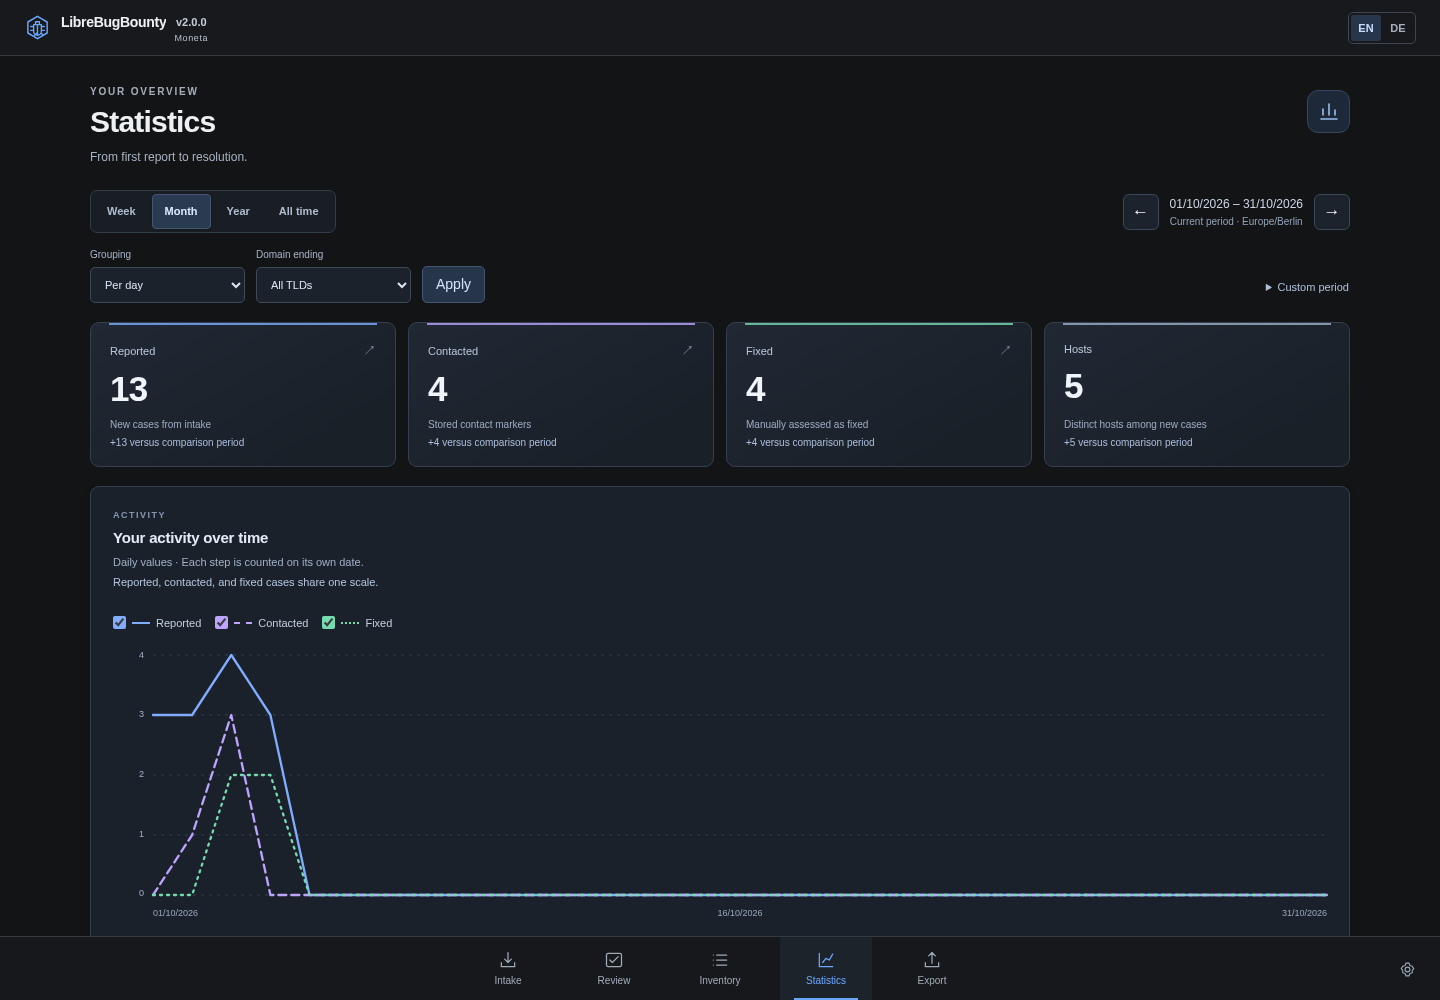
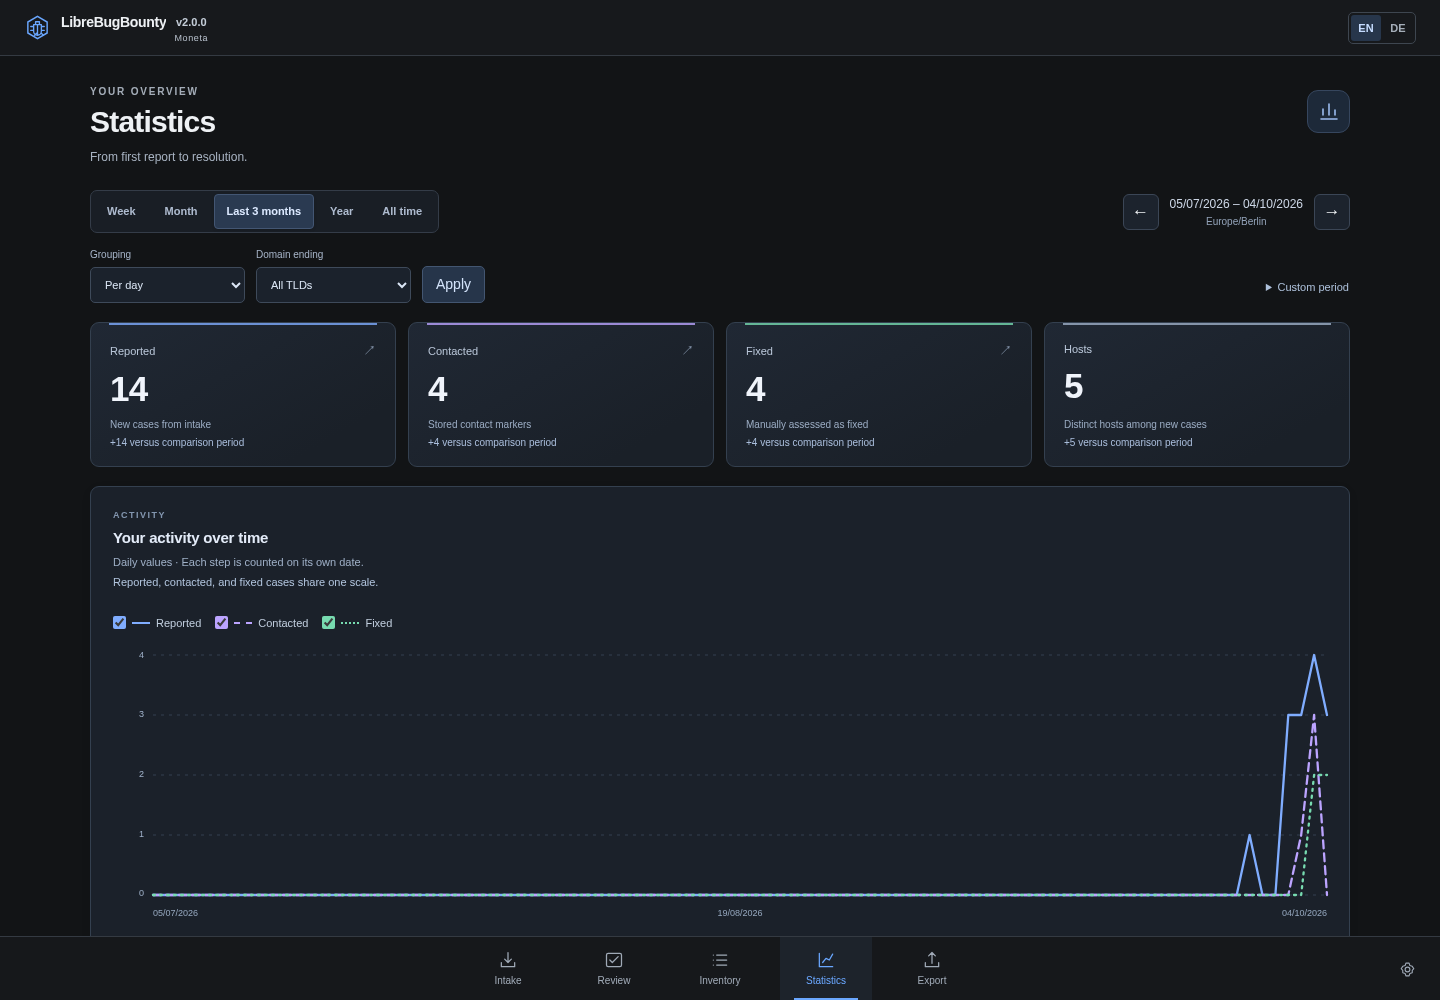
feat(statistics): default to the rolling last three months
Add the translated period tab, clamp calendar month boundaries, and retain filters during period navigation. Cover range boundaries and drilldowns in PHP and browser checks, and refresh release documentation and the Statistics screenshot.

diff --git a/tests/StatisticsServiceTest.php b/tests/StatisticsServiceTest.php
@@ -130,13 +130,74 @@ final class StatisticsServiceTest extends DatabaseTestCase
         self::assertSame(1, $view['series'][0]['reported']);
     }
 
+    public function testDefaultRollingThreeMonthsIncludesSelectedDayAndPreciselyBoundsDrilldowns(): void
+    {
+        foreach (['2026-07-05 23:59:59', '2026-07-06 00:00:00', '2026-09-30 12:00:00', '2026-10-05 23:59:59', '2026-10-06 00:00:00'] as $date) {
+            $this->finding('rolling.test', $date);
+        }
+        $before = $this->databaseSnapshot();
+        $view = $this->service()->get([], $this->now('2026-10-05 12:00:00'));
+        self::assertSame('last_3_months', $view['period']['kind']);
+        self::assertSame('2026-07-06', $view['period']['from']);
+        self::assertSame('2026-10-05', $view['period']['to']);
+        self::assertSame('day', $view['period']['granularity']);
+        self::assertCount(92, $view['series']);
+        self::assertSame(3, $view['kpis']['reported']['count']);
+        self::assertSame(3, array_sum(array_column($view['series'], 'reported')));
+        self::assertStringContainsString('from=2026-07-06', $view['kpis']['reported']['url']);
+        self::assertStringContainsString('to=2026-10-05', $view['kpis']['reported']['url']);
+        $selected = $this->service()->get(['period' => 'last_3_months', 'anchor' => '2026-09-30', 'granularity' => 'week', 'tld' => '.test'], $this->now('2026-10-05'));
+        self::assertSame('2026-07-01', $selected['period']['from']);
+        self::assertSame('2026-09-30', $selected['period']['to']);
+        self::assertStringContainsString('anchor=2026-06-30', $selected['period']['previousUrl']);
+        self::assertStringContainsString('anchor=2026-12-31', $selected['period']['nextUrl']);
+        self::assertStringContainsString('granularity=week', $selected['period']['previousUrl']);
+        self::assertStringContainsString('tld=.test', $selected['period']['nextUrl']);
+        self::assertSame($before, $this->databaseSnapshot());
+    }
+
+    public function testRollingMonthsClampMonthEndsAndKeepPreviousWindowAdjacent(): void
+    {
+        foreach ([
+            ['2026-05-30', '2026-02-28', '2026-05-31', '2025-11-28'],
+            ['2028-05-30', '2028-02-29', '2028-05-31', '2027-11-29'],
+            ['2026-03-31', '2026-01-01', '2026-04-01', '2025-10-01'],
+            ['2026-10-05', '2026-07-06', '2026-10-06', '2026-04-06'],
+        ] as [$anchor, $from, $until, $previousFrom]) {
+            $period = StatisticsPeriod::fromQuery(['anchor' => $anchor], $this->now('2028-10-05'));
+            self::assertSame($from, $period->from->format('Y-m-d'), $anchor);
+            self::assertSame($until, $period->until->format('Y-m-d'), $anchor);
+            self::assertSame($previousFrom, $period->previousFrom->format('Y-m-d'), $anchor);
+            parse_str(parse_url($period->navigationUrl(false), PHP_URL_QUERY), $query);
+            $previous = StatisticsPeriod::fromQuery($query, $period->now);
+            self::assertEquals($period->previousFrom, $previous->from);
+            self::assertEquals($period->from, $previous->until);
+        }
+        $lower = StatisticsPeriod::fromQuery(['anchor' => '0001-04-01'], $this->now('2026-10-05'));
+        self::assertNull($lower->navigationUrl(false));
+        $upper = StatisticsPeriod::fromQuery(['anchor' => '9998-12-31'], $this->now('2026-10-05'));
+        self::assertNull($upper->navigationUrl(true));
+    }
+
+    public function testOngoingRollingComparisonUsesEqualElapsedSecondsAcrossBerlinDst(): void
+    {
+        $period = StatisticsPeriod::fromQuery([], $this->now('2026-03-30 12:00:00'));
+        self::assertSame('2025-12-31', $period->from->format('Y-m-d'));
+        self::assertSame('+01:00', $period->from->format('P'));
+        self::assertSame('+02:00', $period->until->format('P'));
+        $comparison = $period->comparison();
+        self::assertNotNull($comparison);
+        self::assertSame($comparison[1]->getTimestamp() - $comparison[0]->getTimestamp(), $comparison[3]->getTimestamp() - $comparison[2]->getTimestamp());
+        self::assertLessThanOrEqual($period->previousUntil, $comparison[3]);
+    }
+
     public function testOngoingMonthComparesOnlyEqualElapsedPriorSpan(): void
     {
         $this->finding('current-first.test', '2026-10-01 11:00:00');
         $this->finding('current-second.test', '2026-10-03 11:00:00');
         $this->finding('previous-first.test', '2026-09-01 11:00:00');
         $this->finding('previous-late.test', '2026-09-20 11:00:00');
-        $view = $this->service()->get(['anchor' => '2026-10-03'], $this->now('2026-10-03 12:00:00'));
+        $view = $this->service()->get(['period' => 'month', 'anchor' => '2026-10-03'], $this->now('2026-10-03 12:00:00'));
         self::assertSame(2, $view['kpis']['reported']['count']);
         self::assertSame(2, $view['kpis']['reported']['comparisonCount']);
         self::assertSame(1, $view['kpis']['reported']['previousCount']);

diff --git a/tests/StudioStatisticsWebTest.php b/tests/StudioStatisticsWebTest.php
@@ -38,7 +38,7 @@ final class StudioStatisticsWebTest extends DatabaseTestCase
             self::assertSame(200, $response->getStatusCode());
             self::assertGreaterThanOrEqual(1, $this->xpath($response->getContent())->query('//nav[contains(@class,"studio-workspace-nav")]//a[@href="/statistics"]')->length, $path);
         }
-        foreach (['', '?period=week&anchor=2026-10-03', '?period=month&anchor=2026-10-03', '?period=year&anchor=2026-10-03&granularity=day', '?period=all&granularity=month', '?period=custom&from=2026-10-01&to=2026-10-03&granularity=week'] as $query) {
+        foreach (['', '?period=last_3_months&anchor=2026-10-03', '?period=week&anchor=2026-10-03', '?period=month&anchor=2026-10-03', '?period=year&anchor=2026-10-03&granularity=day', '?period=all&granularity=month', '?period=custom&from=2026-10-01&to=2026-10-03&granularity=week'] as $query) {
             $response = $this->request('/statistics'.$query);
             self::assertSame(200, $response->getStatusCode(), $query);
             self::assertStringContainsString('no-store', (string) $response->headers->get('Cache-Control'));
@@ -48,7 +48,30 @@ final class StudioStatisticsWebTest extends DatabaseTestCase
             self::assertArrayHasKey('contacted', $data['kpis']);
             self::assertArrayNotHasKey('sent', $data['kpis']);
             self::assertArrayHasKey('fixed', $data['kpis']);
-            if ($query === '') self::assertSame('month', $data['period']['kind']);
+            if ($query === '') self::assertSame('last_3_months', $data['period']['kind']);
+            if ($data['period']['kind'] === 'last_3_months') {
+                self::assertSame(1, $this->xpath($response->getContent())->query('//a[@data-period="last_3_months" and @aria-current="page"]')->length);
+            }
+        }
+        self::assertSame($before, $this->snapshot());
+    }
+
+    public function testRollingRangeDrilldownsIncludeEarlierMonthsAndExcludeBothOuterBoundaries(): void
+    {
+        foreach (['2026-07-03T23:59:59', '2026-07-04T00:00:00', '2026-09-30T12:00:00', '2026-10-03T23:59:59', '2026-10-04T00:00:00'] as $index => $date) {
+            $this->finding('rolling-'.$index)->setSubmittedAt(new \DateTimeImmutable($date))->setContactedAt(new \DateTimeImmutable($date));
+        }
+        $this->entityManager->flush();
+        $before = $this->snapshot();
+        $data = $this->payload($this->request('/statistics?anchor=2026-10-03')->getContent());
+        self::assertSame('last_3_months', $data['period']['kind']);
+        foreach (['reported', 'contacted'] as $event) {
+            self::assertSame(3, $data['kpis'][$event]['count']);
+            self::assertSame(3, $this->listCount($this->request($data['kpis'][$event]['url'])->getContent()));
+        }
+        self::assertSame(3, array_sum(array_column($data['series'], 'reported')));
+        foreach ($data['tlds']['cases'] as $tld) {
+            self::assertSame($tld['count'], $this->listCount($this->request($tld['url'])->getContent()));
         }
         self::assertSame($before, $this->snapshot());
     }

diff --git a/src/Dto/StatisticsPeriod.php b/src/Dto/StatisticsPeriod.php
@@ -27,9 +27,9 @@ final readonly class StatisticsPeriod
                 throw new \InvalidArgumentException('Statistikfilter müssen einzelne Textwerte sein.');
             }
         }
-        $kind = $query['period'] ?? 'month';
+        $kind = $query['period'] ?? 'last_3_months';
         $granularity = $query['granularity'] ?? 'day';
-        if (!in_array($kind, ['week', 'month', 'year', 'all', 'custom'], true)) {
+        if (!in_array($kind, ['week', 'month', 'last_3_months', 'year', 'all', 'custom'], true)) {
             throw new \InvalidArgumentException('Unbekannter Statistikzeitraum.');
         }
         if (!in_array($granularity, ['day', 'week', 'month'], true)) {
@@ -57,6 +57,12 @@ final readonly class StatisticsPeriod
             $from = min($from, $now->setTime(0, 0));
             $until = $now->setTime(0, 0)->modify('+1 day');
             $previousFrom = $previousUntil = null;
+        } elseif ($kind === 'last_3_months') {
+            // Include the selected day, with calendar months clamped at month ends.
+            $until = $anchor->modify('+1 day');
+            $from = self::shiftMonths($until, -3);
+            $previousUntil = $from;
+            $previousFrom = self::shiftMonths($from, -3);
         } else {
             $from = match ($kind) {
                 'week' => $anchor->modify('-'.((int) $anchor->format('N') - 1).' days'),
@@ -73,6 +79,13 @@ final readonly class StatisticsPeriod
         self::date($until->modify('-1 day')->format('Y-m-d'));
 
         return new self($kind, $granularity, $anchor, $from, $until, $now, $previousFrom, $previousUntil);
+    }
+
+    private static function shiftMonths(\DateTimeImmutable $date, int $months): \DateTimeImmutable
+    {
+        $month = $date->modify('first day of this month')->modify(sprintf('%+d months', $months));
+
+        return $month->setDate((int) $month->format('Y'), (int) $month->format('m'), min((int) $date->format('j'), (int) $month->format('t')));
     }
 
     public static function date(string $value): \DateTimeImmutable
@@ -120,6 +133,14 @@ final readonly class StatisticsPeriod
                 return null;
             }
             $query = ['period' => 'custom', 'from' => $nextFrom->format('Y-m-d'), 'to' => $nextTo->format('Y-m-d')];
+        } elseif ($this->kind === 'last_3_months') {
+            $nextAnchor = ($next ? self::shiftMonths($this->until, 3) : $this->from)->modify('-1 day');
+            $query = ['period' => $this->kind, 'anchor' => $nextAnchor->format('Y-m-d')];
+            try {
+                self::fromQuery($query, $this->now);
+            } catch (\InvalidArgumentException) {
+                return null;
+            }
         } else {
             $shift = $direction.'1 '.$this->kind;
             $nextAnchor = $this->from->modify($shift);

diff --git a/templates/studio/statistics.php b/templates/studio/statistics.php
@@ -137,7 +137,7 @@ $isEmpty = array_sum(array_map(static fn (string $metric): int => $view['kpis'][
         <section class="stat-controls" aria-label="<?= $escape($t('Zeitraum und Filter')) ?>">
           <div class="stat-period-bar">
             <nav class="stat-segmented" aria-label="<?= $escape($t('Statistikzeitraum')) ?>">
-              <?php foreach (['week' => 'Woche', 'month' => 'Monat', 'year' => 'Jahr', 'all' => 'Gesamt'] as $kind => $label): ?>
+              <?php foreach (['week' => 'Woche', 'month' => 'Monat', 'last_3_months' => 'Letzte 3 Monate', 'year' => 'Jahr', 'all' => 'Gesamt'] as $kind => $label): ?>
                 <a data-period="<?= $escape($kind) ?>" href="<?= $escape($statisticsUrl(['period' => $kind])) ?>"<?= $period['kind'] === $kind ? ' aria-current="page"' : '' ?>><?= $escape($t($label)) ?></a>
               <?php endforeach; ?>
             </nav>

diff --git a/translations/ui.en.php b/translations/ui.en.php
@@ -416,6 +416,7 @@ return [
     'Zeitraum' => 'Period',
     'Tag' => 'Day',
     'Woche' => 'Week',
+    'Letzte 3 Monate' => 'Last 3 months',
     'Monat' => 'Month',
     'Jahr' => 'Year',
     'Anwenden' => 'Apply',

diff --git a/USAGE.md b/USAGE.md
@@ -131,11 +131,14 @@ information; they are not presented as newly recorded manual assessments.
 
 ## Statistics
 
-Choose a week, month, year, all-time view, or custom date range, and group the
-chart by day, week, or month. **Reported**, **Contacted**, and **Fixed** share one
-chart scale; each series can be hidden independently
-without changing that scale. Exact counts are available in the chart inspection
-and expandable table. The calendar and chart links open the matching cases.
+**Last 3 months** is the default: a rolling period of three calendar months
+through today (inclusive). For example, October 5 shows July 6 through October 5.
+Month-end boundaries are clamped to the last valid day of the destination month.
+You can also choose a week, month, year, all-time view, or custom date range,
+and group the chart by day, week, or month. **Reported**, **Contacted**, and
+**Fixed** share one chart scale; each series can be hidden independently without
+changing that scale. Exact counts are available in the chart inspection and
+expandable table. The calendar and chart links open the matching cases.
 
 - **Reported** counts intake, using the storage timestamp if intake time is
   unavailable.

diff --git a/CHANGELOG.md b/CHANGELOG.md
@@ -29,8 +29,9 @@ from URL intake to evidence, manual assessment, and export.
 - Retained screenshot and observation history, searchable case inventory,
   private notes, and explicit recheck, screenshot, archive, and deletion actions.
 - Activity statistics for reported intake, contacted cases, and manually fixed
-  cases on one shared chart, with weekly, monthly, yearly, all-time, and custom
-  periods, day/week/month grouping, a yearly activity calendar, and domain-suffix
+  cases on one shared chart, defaulting to the rolling last three months through
+  today, with weekly, monthly, yearly, all-time, and custom periods,
+  day/week/month grouping, a yearly activity calendar, and domain-suffix
   breakdowns.
 - Configurable exports: compact URL lists, current case-state JSON, and ZIP
   report packages with selected image evidence. Private notes are included only

diff --git a/.github/releases/v2.0.0.md b/.github/releases/v2.0.0.md
@@ -24,8 +24,9 @@ and evidence stay on your machine.
   completed contacts, and request rechecks or new screenshots while retaining
   previous evidence.
 - **Activity statistics:** follow intake, contacted cases, and manually fixed
-  cases across weekly, monthly, yearly, all-time, or custom periods, grouped by
-  day, week, or month. Includes an activity calendar and domain-suffix breakdowns.
+  cases over the last three months through today by default, or choose
+  weekly, monthly, yearly, all-time, or custom periods, grouped by day, week,
+  or month. Includes an activity calendar and domain-suffix breakdowns.
 - **Reports for manual sharing:** export compact URL lists, current case-state
   JSON, or ZIP packages containing a readable report, structured domains and
   cases, and selected available screenshots. Private notes are included only

diff --git a/README.md b/README.md
@@ -74,9 +74,10 @@ images and judgments remain in the history.
 
 ### Follow activity
 
-**Statistics** shows **Reported**, **Contacted**, and **Fixed** across weekly,
-monthly, yearly, all-time, or custom periods. Group activity by day, week, or
-month, then open the matching cases from the chart or calendar.
+**Statistics** opens with the **last three months**, through today. Follow
+**Reported**, **Contacted**, and **Fixed**, or choose a week, month, year, all-time,
+or custom period. Group activity by day, week, or month, then open the matching
+cases from the chart or calendar.
 
 <p>
   <a href="docs/screenshots/statistics.png"><img src="docs/screenshots/statistics.png" alt="Statistics compares reported, contacted, and fixed cases over time" width="680"></a>
